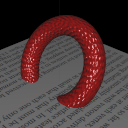
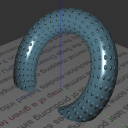
updated

diff --git a/_posts/2021-06-18-torus.md b/_posts/2021-06-18-torus.md
@@ -20,7 +20,14 @@ Vulkan...
 
 # Objective 
 
-In this project we will render a torus using the OpenGL. 
+In this project we will render a torus using OpenGL, GLSL, and C++, in six different styles:
+
+1. Gouraud shading
+2. Phong shading
+3. Texture
+4. Procedural texture
+5. Bump Mapping
+6. Rim lighting
 
 These are the topics we will be covering in this article:
 
@@ -36,7 +43,7 @@ These are the topics we will be covering in this article:
 - Procedura Textures  
 - Bump Mapping 
 
-I'll assume that you have some background in C++ and OpenGL. In my articles, I'll be mostly focusing on the math and explanation of graphics techniques. The full code listings can be found in the link in the [Downloads](#downloads) section.
+I'll assume that you have some background in C++ and OpenGL. I'll be mostly focusing on the explanation of the math and graphics techniques used. The full code listings can be found in the link in the [Downloads](#downloads) section.
 
 Now let's get started.
 
@@ -50,7 +57,7 @@ libraries:
 - [glm][3] - an amazing C++ headers-only GLSL compatible library for 3D graphics math.
 - [stb][4] - a single file image loading library. (Included in repo.)
 
-This project uses CMake for builds. The code is structured as follows:
+This project uses *CMake* for builds. The code is structured as follows:
 
 - **src/common** contains the following common classes used by the projects:
     -  **Axis3D** - draws X/Y/Z axes 
@@ -69,15 +76,15 @@ This project is part of my *Notes on Computer Graphics* initiative. Please check
 
 # OpenGL Setup
 
-We will be using OpenGL 4.5 for this projects. Here's the overall rendering strategy, which is typical for OpenGL programs.
+We will be using OpenGL 4.5 for this project. Here's the overall rendering strategy, which is typical for modern OpenGL programs.
 
 **Setup**
 
 1. Load the required GLSL shaders. 
 2. Create the geometry for the 3D object - vertices, normals, texture coordinates, etc.
 3. Load textures, if applicable.
-4. Create a Vertex Array Object (VAO) for 
-5. Create a VBO
+4. Create a Vertex Array Object (VAO) for rendering the geometry.
+5. Create and configure buffers to hold vertex attribute data.
 
 **Render**
 
@@ -88,32 +95,32 @@ We will be using OpenGL 4.5 for this projects. Here's the overall rendering stra
 
 # Torus Geometry 
 
-A torus centered at the origin with its axis aligned along $$+Z$$ can be described using the following set of parametric equations:
+A torus centered at the origin with its axis aligned along *+Z* can be described by the following set of parametric equations:
 
 $$
 \begin{aligned}
 x &= (R + r \cos{v}) \cos{u} \\
 y &= (R + r \cos{v}) \sin{u} \\
 z &= r \sin{v} \\
-&u, v \in [0, 2\pi]
+u, v &\in [0, 2\pi]
 \end{aligned}
 \tag{1}
 $$
 
-In Eq. 1, $$R$$ is the outer radius of the torus, $$r$$ is the tube radius.
-$$u$$ goes from $$0$$ to $$2\pi$$, creating the outer ring of the torus, and $$v$$ goes 
-from $$0$$ to $$2\pi$$ creating the inner tube of the torus.
+In Eq. 1, *R* is the outer radius of the torus, *r* is the tube radius.
+*u* goes from *0* to *2&pi;*, creating the outer ring of the torus, and *v* goes 
+from *0* to *2&pi;* creating the inner tube of the torus.
 
 <hr>
 ## Derivation 
 
-Since a picture is worth a thousand words or so, here's a quick visual proof of the above:
+Since it is said that a picture is worth a thousand words, here's a quick visual proof of the above:
 
 ![torus param deriv](/images/2021/06/torus_param.png)
 
 <hr>
 
-The surface normal for a point $$(x, y, z)$$ on the torus is given by the following set of parametric equations:
+The surface normal for a point *(x, y, z)* on the torus is given by the following set of parametric equations:
 
 $$
 \begin{aligned}
@@ -124,29 +131,51 @@ N_z &= \sin{v}
 \tag{2}
 $$
 
-To get some intution on Eq. 2, think about the direction of the normals on a circular ring on the torus. They will be the same even if the ring is translated to the origin. Also, remember that normal at a point $$P=(x, y)$$ on a unit circle is $$N=(x, y)$$. So if you set $$R=0$$ and $$r=1$$ in Eq. 1, you end up with Eq. 2.
+To get some intution on Eq. 2, think about the direction of the normals on a circular ring on the torus. They will be the same even if the ring is translated to the origin. Also, remember that normal at a point *P=(x, y)* on a unit circle is *N=(x, y)*. So if you set *R=0* and *r=1* in Eq. 1, you end up with Eq. 2.
+
+The parameters *(u, v)* form an important coordinate system for rendering our torus. Normalising them gives us texture coordinates - also commonly expressed as *(s, t)*. They are also used in advanced lighting techniues like bump mapping, and that's where the notion of **tangent space** comes in. 
 
 ## Tangent Space
 
-The parameters $$(u, v)$$ form an important coordinate system for rendering our torus. Normalising them gives us texture coordinates - also commonly expressed as $$(s, t)$$. They are also used in ligting, and that's where the notion of **tangent space** comes in. 
+You can think of tangent space
 
+The tangent is computed by taking the partial derivative of the surface *P* as follows:
 
+$$
+T_u = \frac{\partial P(u, v)}{\partial u}
+\tag{3}
+$$
 
+Computing the above using Eq. 1, we get:
 
-Here's the scheme we're going to use to render the torus:
+$$
+\begin{aligned}
+T_x &= -(R + r \cos{v}) \sin{u} \\
+T_y &= (R + r \cos{v}) \cos{u} \\
+T_z &= 0 \\
+u, v &\in [0, 2\pi]
+\end{aligned}
+\tag{4}
+$$
 
-![torus construction](/images/2021/06/torus_render.png)
+## Rendering the Torus
+
+We have the vertices for the torus, but how do we render the surface? Here's the scheme we're going to use:
+
+![torus render](/images/2021/06/torus_render.png)
+
+Triangle strip...
 
 ## Code
 
-Here's the code, from the *Torus::_createTorus()* method which computes the vertices, normals, and tangents. 
+Here's the code, from the *Torus::_createTorus()* method which computes the vertices, normals, and tangents. Note that we use *std::vector<float>* to store the geometry, which is very convenient. 
 
 <script src="https://gist.github.com/mahesh-electronut/fb9e620095e76bda67a5602f6af7b04b.js"></script>
 
 
 # Lighting Model 
 
-Here's the lighting model for our project.
+Here's the lighting scheme for our project.
 
 ![Lighting Model](/images/2021/06/lighting.png)
 
@@ -159,7 +188,7 @@ C = K_a I_a + K_d I_d + K_s I_s
 \tag{3}
 $$
 
-*Ka* is 
+*Ka* and *Ia* are the material color and intensity of ambient light - 
 
 Now let's look at specific shading techniques to compute the final color.
 
